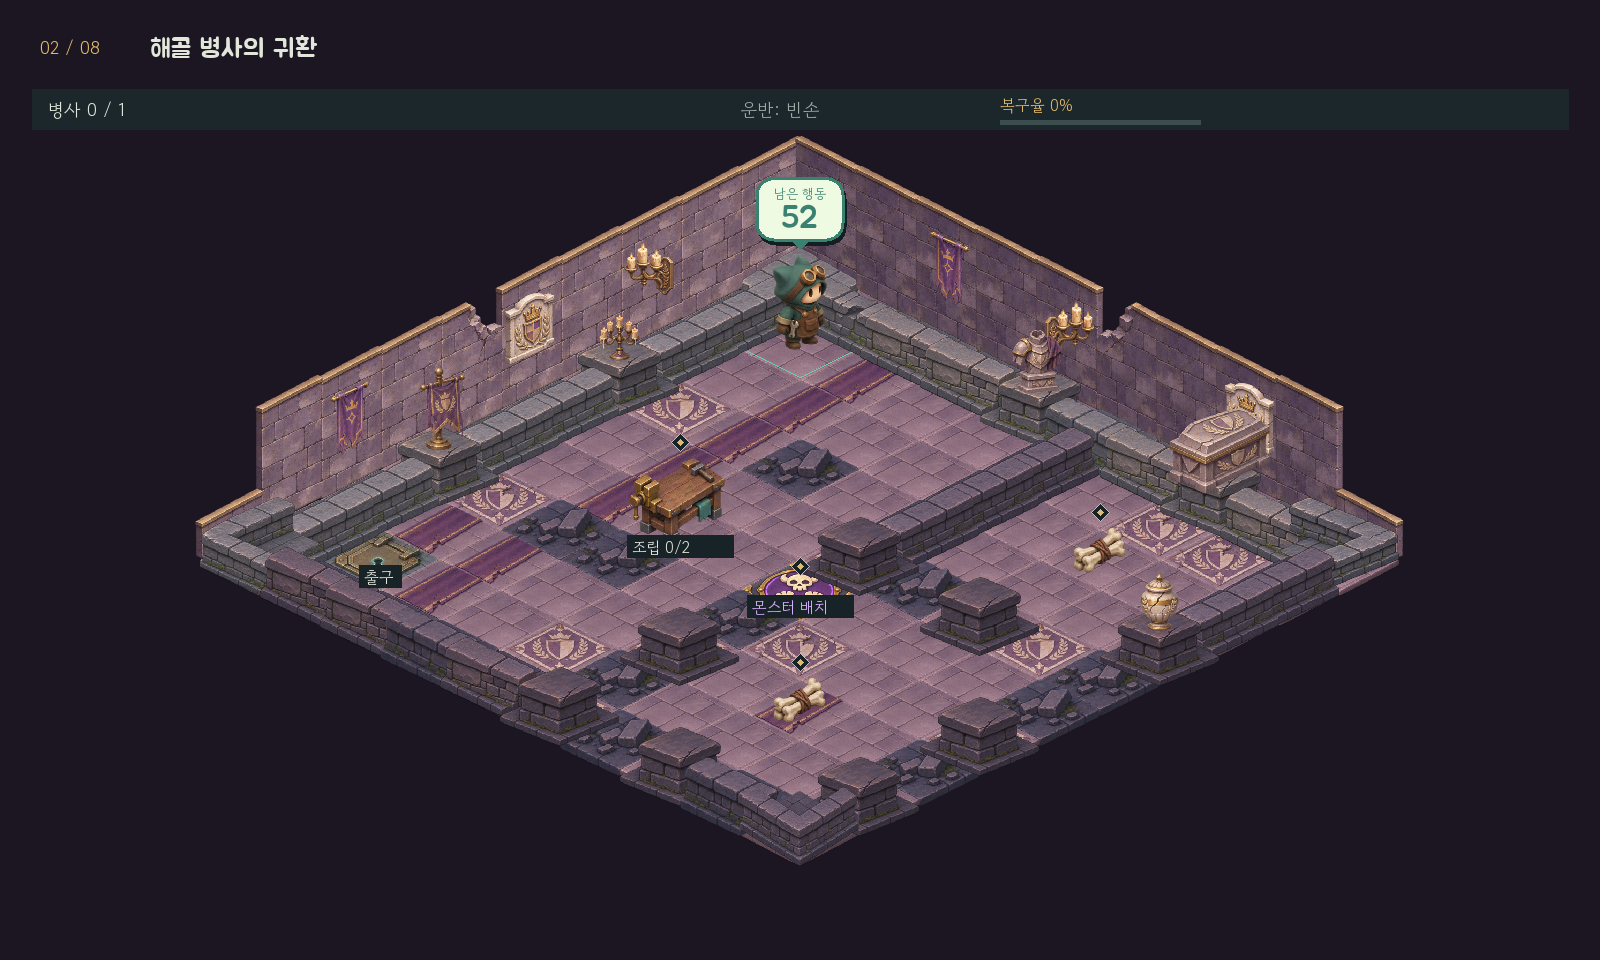
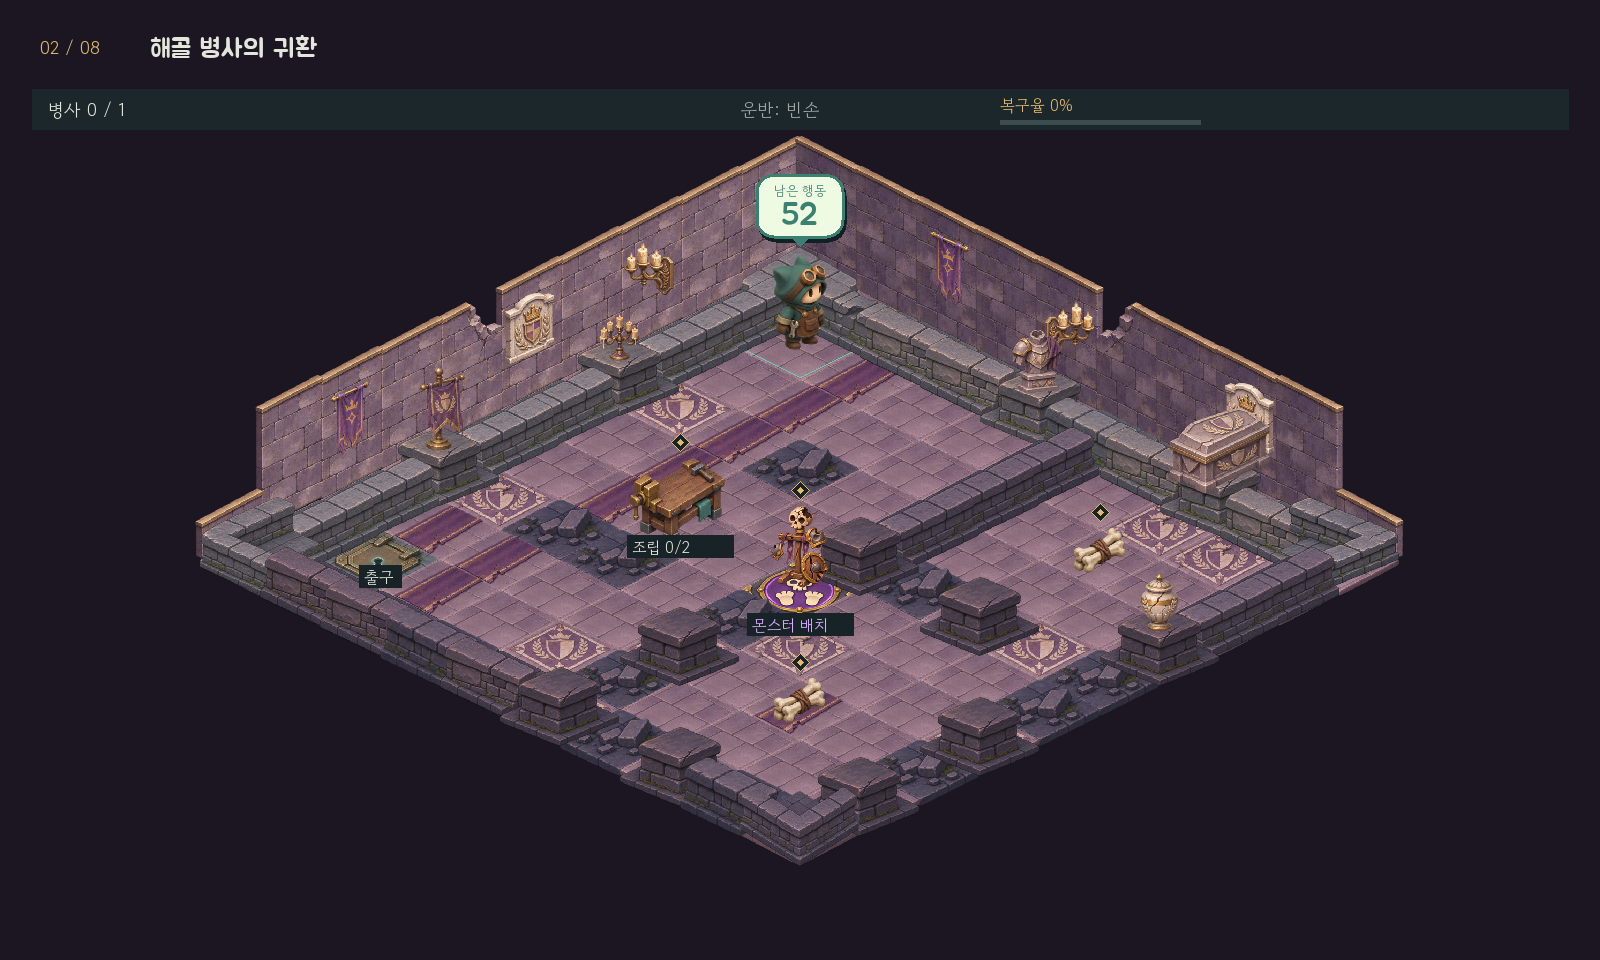
feat: 몬스터 배치 발판에 크게 파손된 갑옷 거치대 추가

Changed region(s): [[0.4688, 0.5312, 0.5312, 0.6875], [0.4688, 0.1562, 0.5312, 0.2812]]

diff --git a/game/view.py b/game/view.py
@@ -522,6 +522,8 @@ class View:
                 elif pos in level.posts:
                     tile = "post_empty"
                     tint = None
+                    if pos not in state.soldiers:
+                        objects.append((depth, 1, "post_rack", sx, sy))
                     labels.append((pos, "배치 완료" if pos in state.soldiers else "몬스터 배치"))
                 elif pos == level.exit:
                     tile = "exit_ready" if exit_ready else "exit_closed"
@@ -614,6 +616,9 @@ class View:
             # 논리 칸은 높이를 더하기 전에 결정해야 클릭 대상이 옆 칸으로 밀리지 않는다.
             if sprite == "player":
                 sy += self.player_support_height(game, player) * scale
+            elif sprite == "post_rack":
+                # 빈 초소의 거치대는 발판 뒤에 세워 앞쪽 발자국을 남긴다.
+                sy += 12 * scale
             elif sprite in ITEM_SPRITES.values():
                 sy += (self.player_support_height(game, moving[0]) if moving
                        else self.support_height(game, pos)) * scale
@@ -663,6 +668,9 @@ class View:
             sx, sy = screen(pos)
             # 큰 방의 인접 장치 이름표는 배치별 여백으로 분리한다.
             dx, dy = scene.get("label_offsets", {}).get(f"{pos[0]},{pos[1]}", (0, 0)) if scene else (0, 0)
+            if pos in level.posts:
+                # 발판의 해골·발자국 문양을 이름표가 덮지 않게 한다.
+                dy -= 18
             sx, sy = sx + dx, sy + dy
             width = len(label) * 16 + 10
             box(sx - width / 2, sy - 28, sx + width / 2, sy - 6, (24, 35, 40))

diff --git a/tests/smoke_interactions.py b/tests/smoke_interactions.py
@@ -27,6 +27,8 @@ def main():
                 with patch.object(view, "text", wraps=view.text) as text:
                     view.draw(game, index, len(levels))
                 assert game.state == before
+                racks = {region[0] for region, mask in view.hit_masks.items() if mask[0] == "post_rack"}
+                assert racks == level.posts - game.state.soldiers
                 prompts = [call for call in text.call_args_list if call.args[2] == "E"]
                 # Empty-floor dropping uses the bottom prompt, without an object marker.
                 marked_action = game.can_interact() and game.state.player in view.interaction_regions

diff --git a/assets/art_v1/README.md b/assets/art_v1/README.md
@@ -1,6 +1,6 @@
 # 용사가 지나간 자리 — 시각 에셋 1차 팩
 
-2026-11-08 최초 제작, 2026-11-09 낮은 벽 변형·방향·코너 추가. 기존 기획의 2.5D 던전 복구 퍼즐을 위한 **투명 PNG 53개와 정렬된 아틀라스 4장**이다. 청록색 수리공, 황동 장치, 회청색 석재, 상아색 뼈, 보라색 초소를 사용한다. 캐릭터와 화풍은 이번에 제안한 1차 디자인이다.
+2026-11-08 최초 제작, 2026-11-09 낮은 벽 변형·방향·코너, 2026-11-11 몬스터 발판과 파손된 갑옷 거치대 추가. 기존 기획의 2.5D 던전 복구 퍼즐을 위한 **투명 PNG 54개와 정렬된 아틀라스 5장**이다. 청록색 수리공, 황동 장치, 회청색 석재, 상아색 뼈, 보라색 초소를 사용한다. 캐릭터와 화풍은 이번에 제안한 1차 디자인이다.
 
 ![입문 3번 방 에셋 조립 예시](previews/room_composition.png)
 
@@ -11,19 +11,21 @@
 | 폴더 | 수량 | 내용 |
 | --- | ---: | --- |
 | `tiles/` | 21 | 바닥 4종, 낮은 벽 10종, 잔해, 함정 파손·설치·가동, 빈 초소, 출구 닫힘·준비 |
-| `objects/` | 16 | 부품, 뼈 묶음, 운반·배치 병사, 작업대 3상태, 레버 2상태, 발판 2상태, 투입구 입·출력, 벨트 2방향, 화로 |
+| `objects/` | 17 | 부품, 뼈 묶음, 운반·배치 병사, 파손된 갑옷 거치대, 작업대 3상태, 레버 2상태, 발판 2상태, 투입구 입·출력, 벨트 2방향, 화로 |
 | `characters/worker/` | 16 | NE·SE·SW·NW 각 방향의 대기·걷기 A·걷기 B·운반 자세 |
-| `atlases/` | 4 | 256px 셀로 재정렬한 환경·물체·캐릭터·낮은 벽 아틀라스 |
-| `sources/` | 14 PNG + JSON | 최초 아틀라스 3장, 교체용 부품·몬스터 발판 원본 2장, 낮은 벽 원본 9장과 전체 프롬프트. 원본 PNG는 보존한다. |
+| `atlases/` | 5 | 256px 셀로 재정렬한 환경·물체·캐릭터·낮은 벽 아틀라스와 거치대 단일 셀 |
+| `sources/` | 15 PNG + JSON | 최초 아틀라스 3장, 교체용 부품·몬스터 발판 원본 2장, 거치대 원본 1장, 낮은 벽 원본 9장과 전체 프롬프트. 원본 PNG는 보존한다. |
 | `previews/` | 3 | 전체 목록, 입문 3번 방 조립 예시, 4×4 타일 연결 검토 |
 
-개별 PNG는 모두 **256×256 RGBA8**이다. 환경 아틀라스는 **1024×768**, 물체·캐릭터 아틀라스는 **1024×1024**, 추가 낮은 벽 아틀라스는 **1024×768**이다. 자세한 파일·크기·기준점·SHA-256·프레임 좌표는 [manifest.json](manifest.json)에 기록한다.
+개별 PNG는 모두 **256×256 RGBA8**이다. 환경 아틀라스는 **1024×768**, 물체·캐릭터 아틀라스는 **1024×1024**, 추가 낮은 벽 아틀라스는 **1024×768**, 거치대 아틀라스는 **256×256**이다. 자세한 파일·크기·기준점·SHA-256·프레임 좌표는 [manifest.json](manifest.json)에 기록한다.
 
 ![전체 스프라이트 목록](previews/overview.png)
 
 ### 2026-11-11 몬스터 배치 발판
 
 `post_empty`를 큰 상아색 해골 문장, 발자국, 보라색 원과 황동 테두리로 교체했다. 기존 224×112 바닥 면과 12px 두께, `(128, 160)` 기준점과 아틀라스 슬롯을 유지한다. 빈자리에는 ‘몬스터 배치’, 병사를 놓은 뒤에는 ‘배치 완료’를 표시한다. 내장 `image_gen`으로 만든 [원본](sources/monster-post.png)과 [전체 프롬프트](sources/monster-post-prompt.json)를 보존했다. `node tools/art/build.mjs`로 재생성한다.
+
+빈 발판에는 [파손된 갑옷 거치대](objects/post_rack.png)를 별도 물체로 올린다. 크게 깨진 해골 투구, 끈에 매달린 어깨 갑옷, 쪼개진 방패와 받침목, 찢어진 보라색 천으로 수리 전 상태를 표시한다. 병사를 배치하면 거치대를 숨기고 기존 병사 에셋으로 교체하며, 되돌리기와 재시작 시 거치대가 복구된다. 높이는 152px, 기준점은 `(128, 212)`이고 발판 뒤쪽으로 12px 옮겨 앞의 발자국을 남긴다. [생성 원본](sources/post-rack.png)과 [최초 제작·파손 강화 프롬프트 3개](sources/post-rack-prompts.json)를 보존했다. 모두 내장 `image_gen`으로 제작했으며 빌드는 투명 여백 정리·정렬·축소만 수행한다.
 
 ### 2026-11-09 부품 교체
 
@@ -95,6 +97,7 @@ draw_at_ground(image, entry, sx=445, sy=500, scale=94 / 224)
 | `state.items[position] == "bone"` | `bone_bundle` |
 | 운반 중인 병사 | `soldier_carried` |
 | `state.soldiers`에 있는 칸 | `post_empty` 위에 `soldier_deployed` |
+| `level.posts - state.soldiers`의 빈 초소 | `post_empty` 위에 `post_rack` |
 | 아직 설치하지 않은 함정 | `trap_broken` |
 | 설치했고 가동 전인 함정 | `trap_installed` |
 | 가동한 함정 | `trap_active` |
